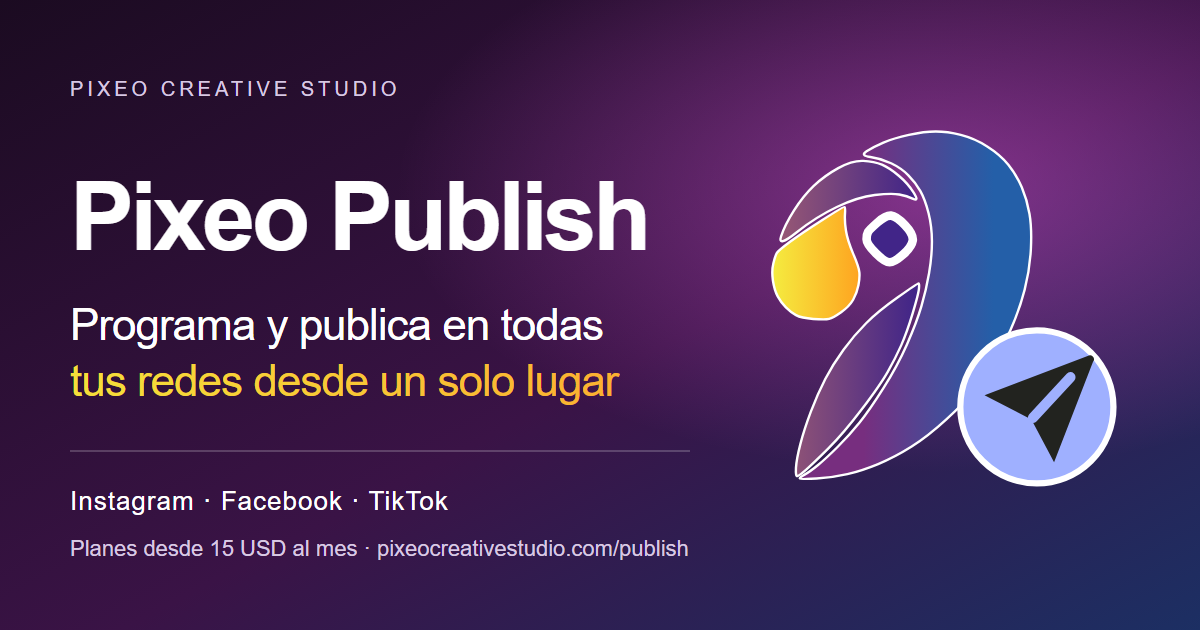
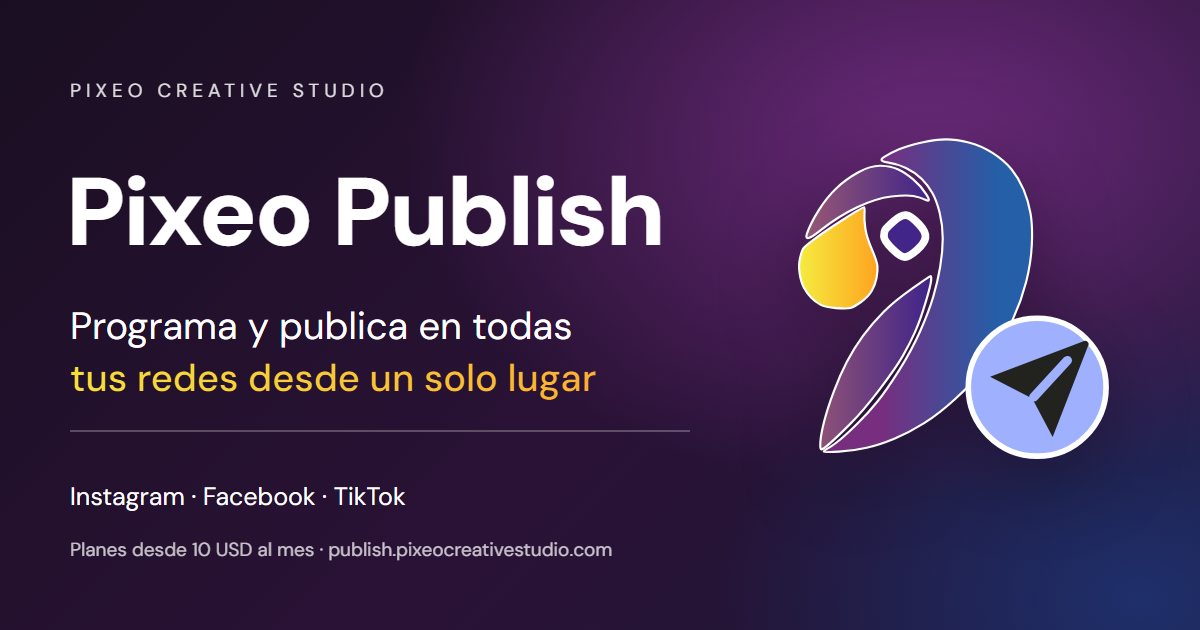
landing: plan Esencial a 10 USD/mes
Decisión de Roberto (2026-11-16): bajar la entrada para captar negocios
pequeños. Anual 100 (2 meses gratis); la imagen social se regenera desde
og-source.html para que el precio no quede viejo en las vistas previas.

diff --git a/pixeo/landing/index.html b/pixeo/landing/index.html
@@ -1,4 +1,4 @@
-<!doctype html><html lang="es"><head><meta charset="utf-8"><meta name="viewport" content="width=device-width, initial-scale=1"><meta name="theme-color" content="#f4f3ed"><title>Pixeo Publish — Programa tus redes sociales | Pixeo</title><meta name="description" content="Programa y publica en Instagram, Facebook y TikTok desde un solo calendario. Servicio administrado por Pixeo, con planes desde 15 USD al mes."><link rel="canonical" href="https://publish.pixeocreativestudio.com/"><link rel="icon" href="/landing/img/icon.svg" type="image/svg+xml"><link rel="icon" href="/landing/img/icon-32.png" type="image/png" sizes="32x32"><link rel="apple-touch-icon" href="/landing/img/icon-180.png"><meta property="og:type" content="website"><meta property="og:locale" content="es_VE"><meta property="og:site_name" content="Pixeo Publish"><meta property="og:title" content="Pixeo Publish — Programa tus redes sociales"><meta property="og:description" content="Programa y publica en Instagram, Facebook y TikTok desde un solo calendario. Servicio administrado por Pixeo, con planes desde 15 USD al mes."><meta property="og:url" content="https://publish.pixeocreativestudio.com/"><meta property="og:image" content="https://publish.pixeocreativestudio.com/landing/img/og.png"><meta property="og:image:width" content="1200"><meta property="og:image:height" content="630"><meta property="og:image:alt" content="Pixeo Publish: programa y publica en todas tus redes desde un solo lugar"><meta name="twitter:card" content="summary_large_image"><meta name="twitter:title" content="Pixeo Publish — Programa tus redes sociales"><meta name="twitter:description" content="Programa y publica en Instagram, Facebook y TikTok desde un solo calendario. Servicio administrado por Pixeo, con planes desde 15 USD al mes."><meta name="twitter:image" content="https://publish.pixeocreativestudio.com/landing/img/og.png"><meta name="twitter:image:alt" content="Pixeo Publish: programa y publica en todas tus redes desde un solo lugar"><link rel="stylesheet" href="/landing/css/landing.css"><script type="application/ld+json">{"@context":"https://schema.org","@type":"SoftwareApplication","name":"Pixeo Publish","applicationCategory":"BusinessApplication","operatingSystem":"Web","url":"https://publish.pixeocreativestudio.com/","inLanguage":"es","description":"Programa y publica en Instagram, Facebook y TikTok desde un solo calendario. Servicio administrado por Pixeo, con planes desde 15 USD al mes.","image":"https://publish.pixeocreativestudio.com/landing/img/og.png","publisher":{"@type":"Organization","name":"Pixeo Creative Studio","url":"https://pixeocreativestudio.com"},"offers":[{"@type":"Offer","name":"Esencial","price":"15","priceCurrency":"USD","url":"https://publish.pixeocreativestudio.com/#planes","availability":"https://schema.org/InStock","priceSpecification":{"@type":"UnitPriceSpecification","price":"15","priceCurrency":"USD","billingDuration":1,"unitCode":"MON"}},{"@type":"Offer","name":"Negocio","price":"35","priceCurrency":"USD","url":"https://publish.pixeocreativestudio.com/#planes","availability":"https://schema.org/InStock","priceSpecification":{"@type":"UnitPriceSpecification","price":"35","priceCurrency":"USD","billingDuration":1,"unitCode":"MON"}},{"@type":"Offer","name":"Agencia","price":"79","priceCurrency":"USD","url":"https://publish.pixeocreativestudio.com/#planes","availability":"https://schema.org/InStock","priceSpecification":{"@type":"UnitPriceSpecification","price":"79","priceCurrency":"USD","billingDuration":1,"unitCode":"MON"}}]}</script><script type="application/ld+json">{"@context":"https://schema.org","@type":"Organization","name":"Pixeo Creative Studio","url":"https://pixeocreativestudio.com","sameAs":["https://www.instagram.com/pixeocreativestudio/","https://www.tiktok.com/@pixeocreativestudio"]}</script><script type="application/ld+json">{"@context":"https://schema.org","@type":"FAQPage","mainEntity":[{"@type":"Question","name":"¿Qué redes puedo conectar?","acceptedAnswer":{"@type":"Answer","text":"Hoy están activas Instagram, Facebook (páginas) y TikTok. Bajo pedido habilitamos YouTube, LinkedIn, X, Threads, Pinterest, Telegram y otras."}},{"@type":"Question","name":"¿Necesito darles mi contraseña?","acceptedAnswer":{"@type":"Answer","text":"No. Conectas cada cuenta con el acceso oficial (OAuth) de la propia red y puedes revocarlo cuando quieras, desde la configuración de esa red o pidiéndonoslo."}},{"@type":"Question","name":"¿Publica solo?","acceptedAnswer":{"@type":"Answer","text":"Sí, publica a la hora programada. En TikTok, mientras dure la revisión de la app por parte de la red, la publicación puede enviarse a la bandeja de borradores para que la publiques desde la app."}},{"@type":"Question","name":"¿Puedo cambiar de plan?","acceptedAnswer":{"@type":"Answer","text":"Sí, cuando quieras. Escríbenos y ajustamos tu plan."}},{"@type":"Question","name":"¿Es código abierto?","acceptedAnswer":{"@type":"Answer","text":"Sí. Pixeo Publish es un fork de Postiz bajo licencia AGPL-3.0. https://github.com/rjvelazquez/pixeo-publish https://github.com/gitroomhq/postiz-app"}},{"@type":"Question","name":"¿Cómo pago?","acceptedAnswer":{"@type":"Answer","text":"Por transferencia o en USDT, de forma mensual o anual. Sin permanencia."}}]}</script><script src="/landing/js/landing.js" defer></script></head><body><a class="skip" href="#contenido">Saltar al contenido</a>
+<!doctype html><html lang="es"><head><meta charset="utf-8"><meta name="viewport" content="width=device-width, initial-scale=1"><meta name="theme-color" content="#f4f3ed"><title>Pixeo Publish — Programa tus redes sociales | Pixeo</title><meta name="description" content="Programa y publica en Instagram, Facebook y TikTok desde un solo calendario. Servicio administrado por Pixeo, con planes desde 10 USD al mes."><link rel="canonical" href="https://publish.pixeocreativestudio.com/"><link rel="icon" href="/landing/img/icon.svg" type="image/svg+xml"><link rel="icon" href="/landing/img/icon-32.png" type="image/png" sizes="32x32"><link rel="apple-touch-icon" href="/landing/img/icon-180.png"><meta property="og:type" content="website"><meta property="og:locale" content="es_VE"><meta property="og:site_name" content="Pixeo Publish"><meta property="og:title" content="Pixeo Publish — Programa tus redes sociales"><meta property="og:description" content="Programa y publica en Instagram, Facebook y TikTok desde un solo calendario. Servicio administrado por Pixeo, con planes desde 10 USD al mes."><meta property="og:url" content="https://publish.pixeocreativestudio.com/"><meta property="og:image" content="https://publish.pixeocreativestudio.com/landing/img/og.png"><meta property="og:image:width" content="1200"><meta property="og:image:height" content="630"><meta property="og:image:alt" content="Pixeo Publish: programa y publica en todas tus redes desde un solo lugar"><meta name="twitter:card" content="summary_large_image"><meta name="twitter:title" content="Pixeo Publish — Programa tus redes sociales"><meta name="twitter:description" content="Programa y publica en Instagram, Facebook y TikTok desde un solo calendario. Servicio administrado por Pixeo, con planes desde 10 USD al mes."><meta name="twitter:image" content="https://publish.pixeocreativestudio.com/landing/img/og.png"><meta name="twitter:image:alt" content="Pixeo Publish: programa y publica en todas tus redes desde un solo lugar"><link rel="stylesheet" href="/landing/css/landing.css"><script type="application/ld+json">{"@context":"https://schema.org","@type":"SoftwareApplication","name":"Pixeo Publish","applicationCategory":"BusinessApplication","operatingSystem":"Web","url":"https://publish.pixeocreativestudio.com/","inLanguage":"es","description":"Programa y publica en Instagram, Facebook y TikTok desde un solo calendario. Servicio administrado por Pixeo, con planes desde 10 USD al mes.","image":"https://publish.pixeocreativestudio.com/landing/img/og.png","publisher":{"@type":"Organization","name":"Pixeo Creative Studio","url":"https://pixeocreativestudio.com"},"offers":[{"@type":"Offer","name":"Esencial","price":"10","priceCurrency":"USD","url":"https://publish.pixeocreativestudio.com/#planes","availability":"https://schema.org/InStock","priceSpecification":{"@type":"UnitPriceSpecification","price":"10","priceCurrency":"USD","billingDuration":1,"unitCode":"MON"}},{"@type":"Offer","name":"Negocio","price":"35","priceCurrency":"USD","url":"https://publish.pixeocreativestudio.com/#planes","availability":"https://schema.org/InStock","priceSpecification":{"@type":"UnitPriceSpecification","price":"35","priceCurrency":"USD","billingDuration":1,"unitCode":"MON"}},{"@type":"Offer","name":"Agencia","price":"79","priceCurrency":"USD","url":"https://publish.pixeocreativestudio.com/#planes","availability":"https://schema.org/InStock","priceSpecification":{"@type":"UnitPriceSpecification","price":"79","priceCurrency":"USD","billingDuration":1,"unitCode":"MON"}}]}</script><script type="application/ld+json">{"@context":"https://schema.org","@type":"Organization","name":"Pixeo Creative Studio","url":"https://pixeocreativestudio.com","sameAs":["https://www.instagram.com/pixeocreativestudio/","https://www.tiktok.com/@pixeocreativestudio"]}</script><script type="application/ld+json">{"@context":"https://schema.org","@type":"FAQPage","mainEntity":[{"@type":"Question","name":"¿Qué redes puedo conectar?","acceptedAnswer":{"@type":"Answer","text":"Hoy están activas Instagram, Facebook (páginas) y TikTok. Bajo pedido habilitamos YouTube, LinkedIn, X, Threads, Pinterest, Telegram y otras."}},{"@type":"Question","name":"¿Necesito darles mi contraseña?","acceptedAnswer":{"@type":"Answer","text":"No. Conectas cada cuenta con el acceso oficial (OAuth) de la propia red y puedes revocarlo cuando quieras, desde la configuración de esa red o pidiéndonoslo."}},{"@type":"Question","name":"¿Publica solo?","acceptedAnswer":{"@type":"Answer","text":"Sí, publica a la hora programada. En TikTok, mientras dure la revisión de la app por parte de la red, la publicación puede enviarse a la bandeja de borradores para que la publiques desde la app."}},{"@type":"Question","name":"¿Puedo cambiar de plan?","acceptedAnswer":{"@type":"Answer","text":"Sí, cuando quieras. Escríbenos y ajustamos tu plan."}},{"@type":"Question","name":"¿Es código abierto?","acceptedAnswer":{"@type":"Answer","text":"Sí. Pixeo Publish es un fork de Postiz bajo licencia AGPL-3.0. https://github.com/rjvelazquez/pixeo-publish https://github.com/gitroomhq/postiz-app"}},{"@type":"Question","name":"¿Cómo pago?","acceptedAnswer":{"@type":"Answer","text":"Por transferencia o en USDT, de forma mensual o anual. Sin permanencia."}}]}</script><script src="/landing/js/landing.js" defer></script></head><body><a class="skip" href="#contenido">Saltar al contenido</a>
   <header class="lp-header"><a class="lp-brand" href="/" aria-label="Pixeo Publish, inicio"><img src="/landing/img/icon.svg" width="36" height="36" alt=""><span>Pixeo Publish</span></a>
   <nav class="lp-nav" aria-label="Navegación principal"><a href="#funciones">Funciones</a><a href="#como-funciona">Cómo funciona</a><a href="#planes">Planes</a><a href="#preguntas">Preguntas</a></nav><a class="lp-enter" href="/auth/login">Entrar</a></header><main id="contenido" tabindex="-1" class="pb">
   <section class="pb-hero"><div class="pw pb-hero-grid">
@@ -7,7 +7,7 @@
       <h1>Programa y publica <em>en todas tus redes</em> desde un solo lugar</h1>
       <p class="pb-lead">Instagram, Facebook y TikTok desde un calendario. Un servicio administrado por Pixeo: tú planificas, nosotros nos encargamos del resto.</p>
       <div class="pb-actions"><a class="pb-btn pb-btn-hot" href="#planes">Ver planes</a><a class="pb-btn pb-btn-ghost" href="/auth/login">Entrar</a></div>
-      <p class="pb-fine">Desde 15 USD al mes · Sin permanencia</p>
+      <p class="pb-fine">Desde 10 USD al mes · Sin permanencia</p>
     </div>
     <div class="pb-mock"><div class="pb-tilt" role="img" aria-label="Vista ilustrativa del calendario semanal de Pixeo Publish con publicaciones de Instagram, TikTok y Facebook en estado programado, borrador y publicado">
       <div class="pb-win"><div class="pb-bar"><span class="pb-dots"><i></i><i></i><i></i></span><span class="pb-bar-title">Calendario</span><span class="pb-views"><span>Día</span><span class="on">Semana</span><span>Mes</span></span></div>
@@ -40,8 +40,8 @@
       <div class="pb-switch" role="presentation"><label for="pb-bill-m">Mensual</label><label for="pb-bill-y">Anual <span>2 meses gratis</span></label></div>
       </fieldset>
       <div class="pb-plans"><article class="pb-plan"><h3>Esencial</h3>
-    <p class="pb-price is-m"><span class="pb-amount">15</span> <span class="pb-unit">USD/mes</span></p>
-    <p class="pb-price is-y"><span class="pb-amount">150</span> <span class="pb-unit">USD/año</span><small>Equivale a 12,50 USD/mes · 2 meses gratis</small></p>
+    <p class="pb-price is-m"><span class="pb-amount">10</span> <span class="pb-unit">USD/mes</span></p>
+    <p class="pb-price is-y"><span class="pb-amount">100</span> <span class="pb-unit">USD/año</span><small>Equivale a 8,33 USD/mes · 2 meses gratis</small></p>
     <ul><li>3 canales</li><li>1 marca</li><li>1 usuario</li></ul>
     <a class="pb-btn is-m" href="https://wa.me/584129354940?text=Hola%20Pixeo%2C%20quiero%20el%20plan%20Esencial%20(mensual)%20de%20Pixeo%20Publish." target="_blank" rel="noopener noreferrer">Elegir Esencial</a>
     <a class="pb-btn is-y" href="https://wa.me/584129354940?text=Hola%20Pixeo%2C%20quiero%20el%20plan%20Esencial%20(anual)%20de%20Pixeo%20Publish." target="_blank" rel="noopener noreferrer">Elegir Esencial (anual)</a></article><article class="pb-plan is-rec"><span class="pb-rec">Recomendado</span><h3>Negocio</h3>

diff --git a/pixeo/deploy/og-source.html b/pixeo/deploy/og-source.html
@@ -1,0 +1,25 @@
+<!doctype html>
+<!-- Fuente de pixeo/landing/landing/img/og.png (1200x630). Regenerar con Chrome headless:
+     chrome --headless=new --window-size=1200,630 --screenshot=og.png og-source.html
+     (icon.svg debe estar junto a este archivo o ajustar la ruta). -->
+<html lang="es"><head><meta charset="utf-8"><style>
+@font-face{font-family:DM;src:url(../landing/landing/fonts/dm-sans-latin.woff2) format("woff2");font-weight:100 1000}
+html,body{margin:0;width:1200px;height:630px;overflow:hidden}
+body{font-family:DM,Arial,sans-serif;color:#fff;background:radial-gradient(900px 600px at 78% 22%,#6a2a7a 0%,transparent 60%),radial-gradient(700px 500px at 95% 95%,#1f2f6b 0%,transparent 60%),linear-gradient(135deg,#1a0f22 0%,#2a1236 55%,#1d1838 100%);position:relative}
+.k{position:absolute;left:70px;top:78px;letter-spacing:5px;font-size:19px;opacity:.85}
+h1{position:absolute;left:66px;top:150px;margin:0;font-size:96px;font-weight:800;letter-spacing:-2px}
+.s{position:absolute;left:70px;top:300px;font-size:38px;line-height:1.38}
+.s b{font-weight:500;background:linear-gradient(90deg,#f5e03a,#fbb030);-webkit-background-clip:text;color:transparent}
+hr{position:absolute;left:70px;top:430px;width:620px;border:0;border-top:2px solid rgba(255,255,255,.25);margin:0}
+.r{position:absolute;left:70px;top:480px;font-size:25px}
+.f{position:absolute;left:70px;top:537px;font-size:19px;opacity:.75}
+img{position:absolute;right:70px;top:120px;width:360px;height:360px;filter:drop-shadow(0 20px 40px rgba(0,0,0,.35))}
+</style></head><body>
+<div class="k">PIXEO CREATIVE STUDIO</div>
+<h1>Pixeo Publish</h1>
+<div class="s">Programa y publica en todas<br><b>tus redes desde un solo lugar</b></div>
+<hr>
+<div class="r">Instagram · Facebook · TikTok</div>
+<div class="f">Planes desde 10 USD al mes · publish.pixeocreativestudio.com</div>
+<img src="../landing/landing/img/icon.svg" alt="">
+</body></html>
